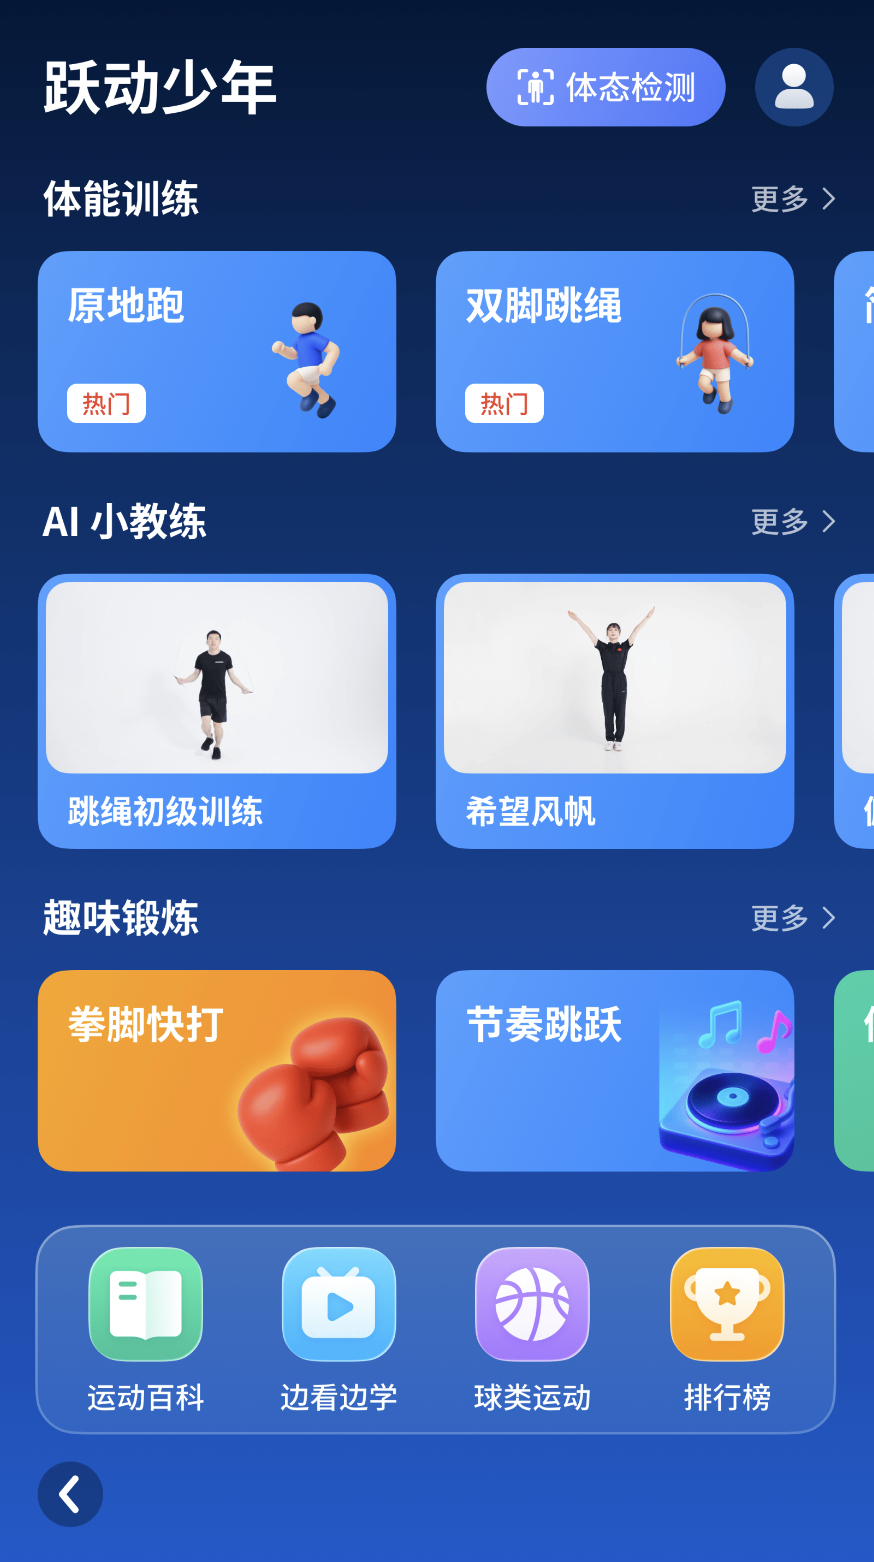
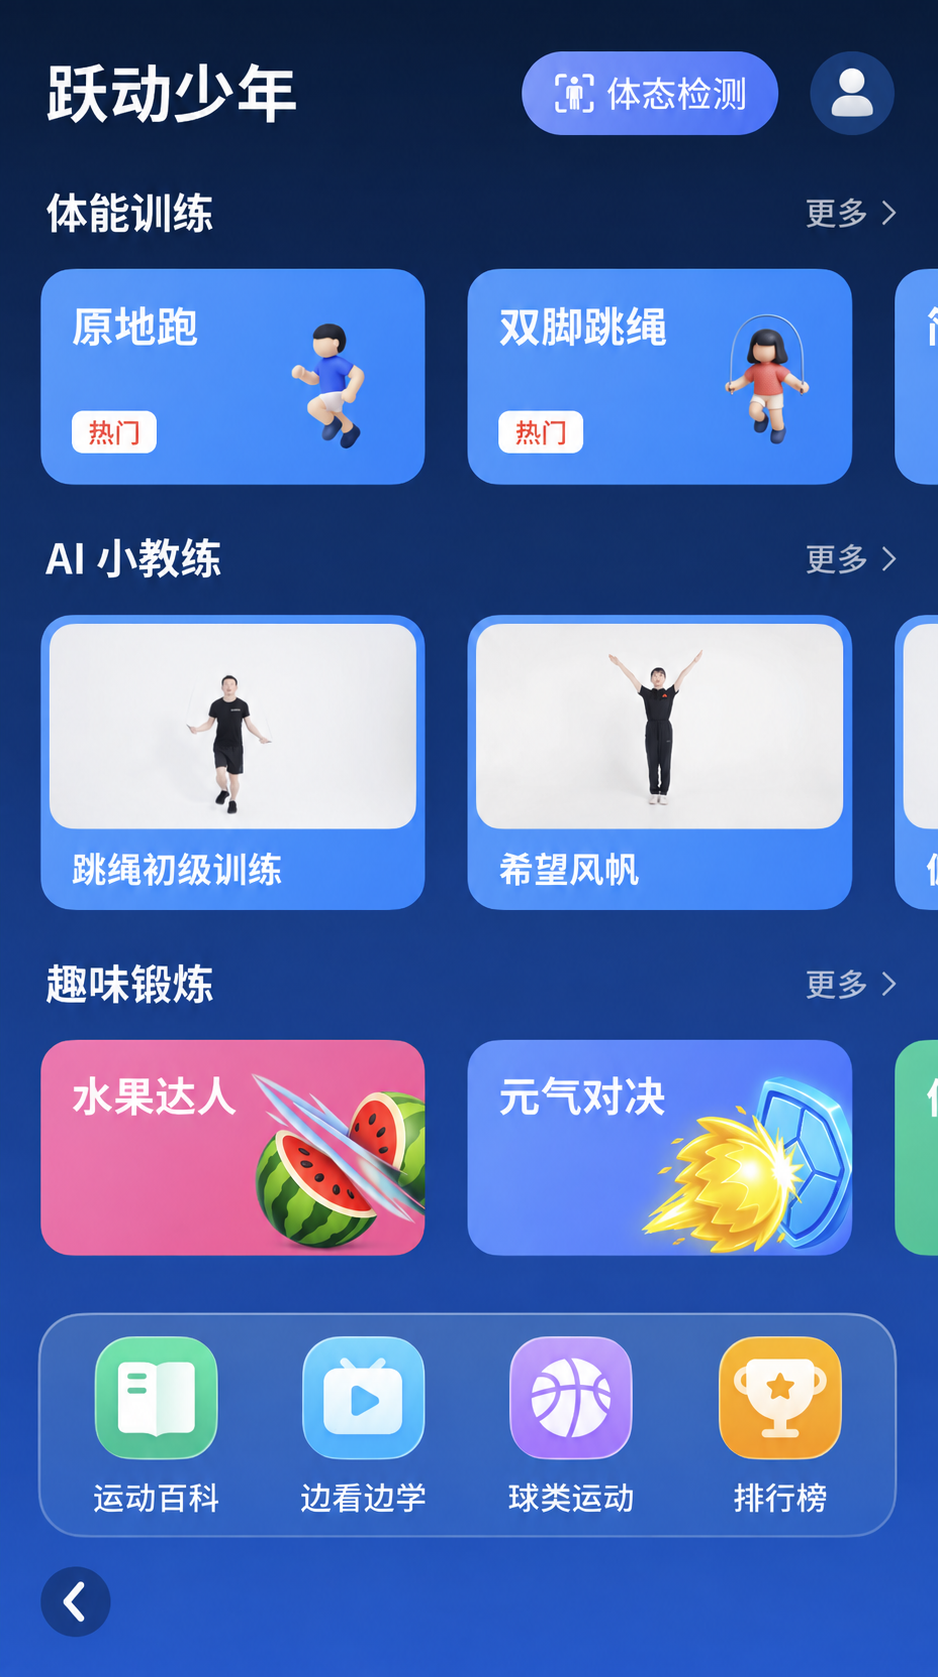
Update youth featured games

diff --git a/demos/v1.1/app.js b/demos/v1.1/app.js
@@ -55,7 +55,7 @@ function checkinKey(){return `${userId||'none'}:${C.day(now())}`}
 function todayChecked(){if(!userId)return false;const key=checkinKey();return Object.hasOwn(checkinDemo,key)?checkinDemo[key]:records.some(r=>r.userId===userId&&C.day(r.timestamp)===C.day(now()))}
 function setCheckinState(checked){if(!userId)return;checkinDemo[checkinKey()]=checked;log(`签到状态切换为${checked?'已签到':'未签到'}（模拟）`);render();toast(`已切换为${checked?'已签到':'未签到'}状态`)}
 function homeView(){const checked=todayChecked();return `<div class="screen reference-home review-highlight"><img class="home-original" src="../../v1.0-home.png" alt="v1.0 首页原图：场地信息、三个人群入口、体态检测、健康百科、趣味锻炼、边看边学、排行榜" draggable="false"><button id="home-data" class="home-hotspot hotspot-profile" aria-label="我的数据"></button><button id="checkin" class="checkin-annotation review-new-feature ${checked?'is-checked':'is-unchecked'}" aria-label="${checked?'今日已签到，查看本月签到日历':'去签到，完成热身点亮今天'}">${checked?'✓ 已签到':'去签到'}</button><button class="home-hotspot hotspot-adult" data-audience="adult" aria-label="热力健将"></button><button class="home-hotspot hotspot-youth" data-audience="youth" aria-label="跃动少年"></button><button class="home-hotspot hotspot-senior" data-audience="senior" aria-label="康乐银发"></button>${calendarOpen?calendarView():''}</div>`}
-function audienceView(){if(audienceDemo==='youth'){return audienceYouthDetail?`<div class="screen audience-image-screen"><img src="./assets/youth-fun-page.png" alt="跃动少年趣味锻炼内容页：水果达人、元气对决等内容"><button id="audience-youth-back" class="audience-image-hotspot back-hotspot" aria-label="返回跃动少年内容页"></button></div>`:`<div class="screen audience-image-screen"><img src="./assets/youth-content-page.png" alt="跃动少年内容页：体能训练、AI 小教练和趣味锻炼"><button id="audience-youth-more" class="audience-image-hotspot more-hotspot" aria-label="查看更多趣味锻炼"></button></div>`}return `<div class="screen audience-review-screen"><header><span>成人内容页</span><h2>热力健将</h2><p>成人页暂无本轮截图，先以文本确认新增内容顺序。</p></header><section><h3>新增置顶内容</h3><div class="audience-priority-card"><b>01</b><div><strong>切水果</strong><small>复用现有游戏</small></div></div><div class="audience-priority-card"><b>02</b><div><strong>元气对决</strong><small>复用现有游戏</small></div></div><p class="audience-order-note">原有内容从第三项起按既有顺序后移</p></section><button class="audience-back" data-go="home">‹ 返回设备首页</button></div>`}
+function audienceView(){if(audienceDemo==='youth'){return audienceYouthDetail?`<div class="screen audience-image-screen"><img src="./assets/youth-fun-page.png" alt="跃动少年趣味锻炼内容页：水果达人、元气对决等内容"><button id="audience-youth-back" class="audience-image-hotspot back-hotspot" aria-label="返回跃动少年内容页"></button></div>`:`<div class="screen audience-image-screen"><img src="./assets/youth-content-page.png?v=games-1" alt="跃动少年内容页：体能训练、AI 小教练和趣味锻炼"><button id="audience-youth-more" class="audience-image-hotspot more-hotspot" aria-label="查看更多趣味锻炼"></button></div>`}return `<div class="screen audience-review-screen"><header><span>成人内容页</span><h2>热力健将</h2><p>成人页暂无本轮截图，先以文本确认新增内容顺序。</p></header><section><h3>新增置顶内容</h3><div class="audience-priority-card"><b>01</b><div><strong>切水果</strong><small>复用现有游戏</small></div></div><div class="audience-priority-card"><b>02</b><div><strong>元气对决</strong><small>复用现有游戏</small></div></div><p class="audience-order-note">原有内容从第三项起按既有顺序后移</p></section><button class="audience-back" data-go="home">‹ 返回设备首页</button></div>`}
 function choose(id,origin='exercise'){chosen=C.catalog.find(c=>c.id===id);intent=origin;userId=null;authState='idle';navigate('guide');scheduleFace();log(`进入站位：${chosen?.name||(intent==='data'?'查看我的数据':'查看里程碑')}`)}
 function calendarView(){const today=C.day(now()),[year,month]=today.split('-').map(Number);const count=new Date(Date.UTC(year,month,0)).getUTCDate(),offset=(new Date(Date.UTC(year,month-1,1)).getUTCDay()+6)%7;const prefix=today.slice(0,7),days=new Set(records.filter(r=>r.userId===userId).map(r=>C.day(r.timestamp)).filter(d=>d.startsWith(prefix)));if(todayChecked())days.add(today);else days.delete(today);return `<div class="medal-backdrop"><section class="medal-dialog checkin-calendar" role="dialog" aria-modal="true" aria-labelledby="calendar-title"><header><h2 id="calendar-title">本月运动签到</h2><button id="close-calendar" aria-label="关闭签到日历">×</button></header><div class="calendar-month">${year} 年 ${month} 月</div><div class="calendar-total">本月已签到 <b>${days.size}</b> 天</div><div class="calendar-week">${['一','二','三','四','五','六','日'].map(d=>'<span>'+d+'</span>').join('')}</div><div class="calendar-grid">${Array.from({length:offset},()=>'<span aria-hidden="true"></span>').join('')}${Array.from({length:count},(_,i)=>{const n=i+1,date=prefix+'-'+String(n).padStart(2,'0'),done=days.has(date),isToday=date===today;return `<div class="calendar-day ${done?'signed':''} ${isToday?'is-today':''} ${date>today?'future':''}" aria-label="${month}月${n}日${isToday?'，今天':''}，${done?'已签到':date>today?'未到日期':'未签到'}" ${isToday?'aria-current="date"':''}><b>${n}</b><small>${done?'✓':isToday?'今天':''}</small></div>`}).join('')}</div><div class="calendar-legend"><span>✓ 已签到</span><span><i></i> 今天</span></div><p class="calendar-note">完成一次运动，点亮当天</p></section></div>`}
 function checkin(){if(todayChecked()){calendarOpen=true;render();D.querySelector('#close-calendar').focus();return}const warmup=C.catalog.find(c=>c.id==='warm');if(!warmup){toast('舒缓热身操暂不可用，请稍后重试');return}choose(warmup.id,'checkin')}
